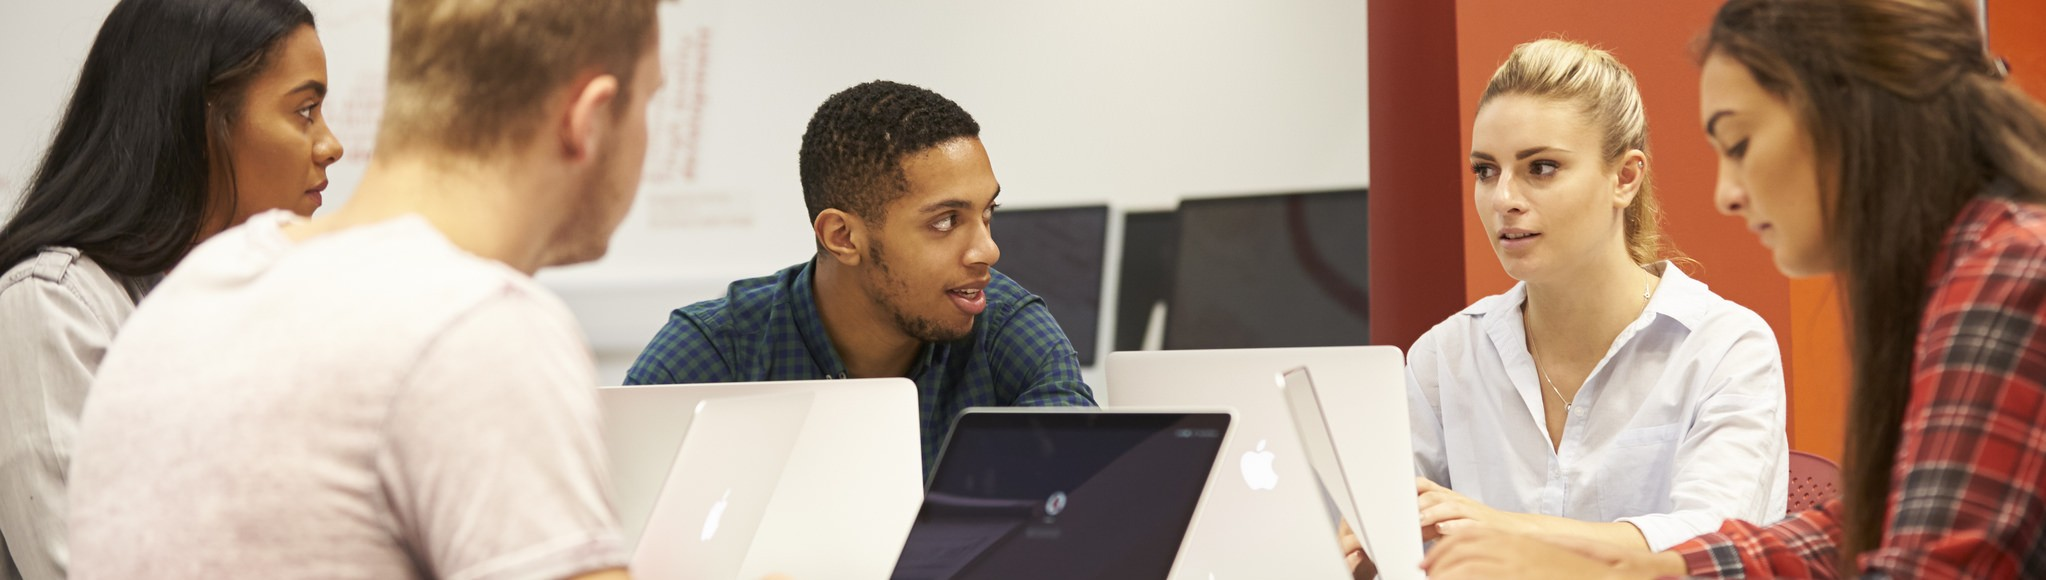
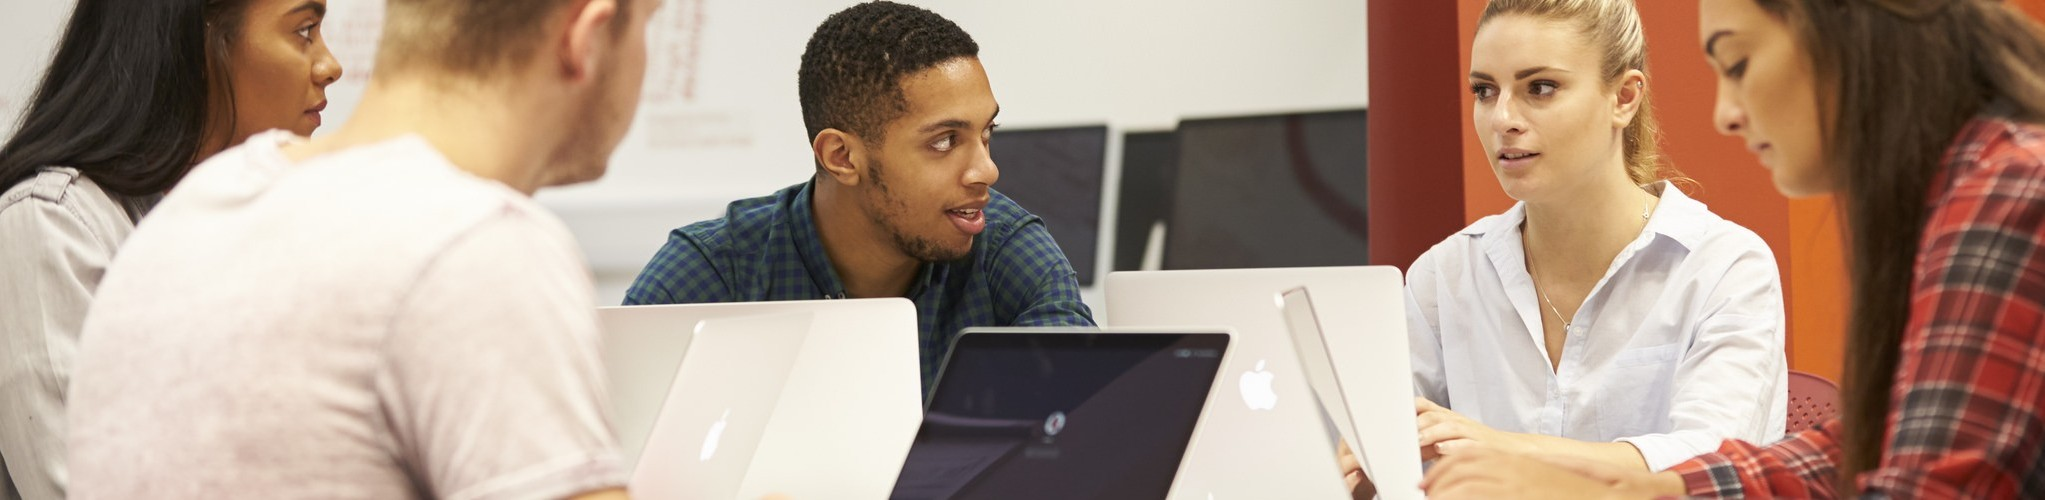
Added footer and made pictures smaller

diff --git a/app/assets/stylesheets/base.scss b/app/assets/stylesheets/base.scss
@@ -1,3 +1,40 @@
+html, body {
+  height: 100%;
+}
+
+#wrap {
+  min-height: 100%;
+}
+
+#main {
+  overflow: auto;
+  padding-bottom: 120px;
+  /* must be same height as the footer */
+}
+
+#footer {
+  padding-top: 10px;
+  position: relative;
+  margin-top: -120px;
+  /* negative value of footer height */
+  height: 120px;
+  clear: both;
+  background-color: #f5f5f5;
+}
+
+
+/* Opera Fix thanks to Maleika (Kohoutec) */
+
+body:before {
+  content: "";
+  height: 100%;
+  float: left;
+  width: 0;
+  margin-top: -32767px;
+  /* thank you Erik J - negate effect of float*/
+}
+
+
 .header {
   height: 40px;
   margin-bottom: 30px;

diff --git a/config/routes.rb b/config/routes.rb
@@ -38,6 +38,7 @@ Rails.application.routes.draw do
   get 'exercises/exercises_all'
 
   get 'my_cart', to: 'carts#my_cart', as: 'my_cart'
+  get 'about', to: 'home#about', as: 'about'
 
   get 'exercises/:id/duplicate', to: 'exercises#duplicate', as: 'duplicate_exercise'
   post 'exercises/:id/add_to_cart', to: 'exercises#add_to_cart', as: 'add_to_cart'

diff --git a/app/controllers/home_controller.rb b/app/controllers/home_controller.rb
@@ -2,4 +2,8 @@ class HomeController < ApplicationController
   def index
     @index = true
   end
+
+  def about
+    render 'about'
+  end
 end
